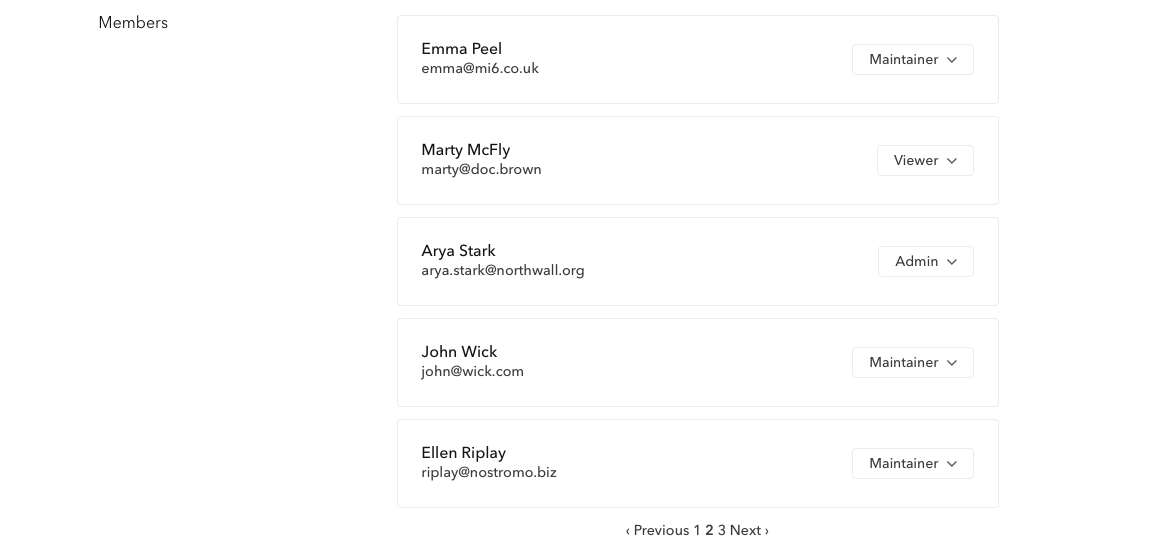
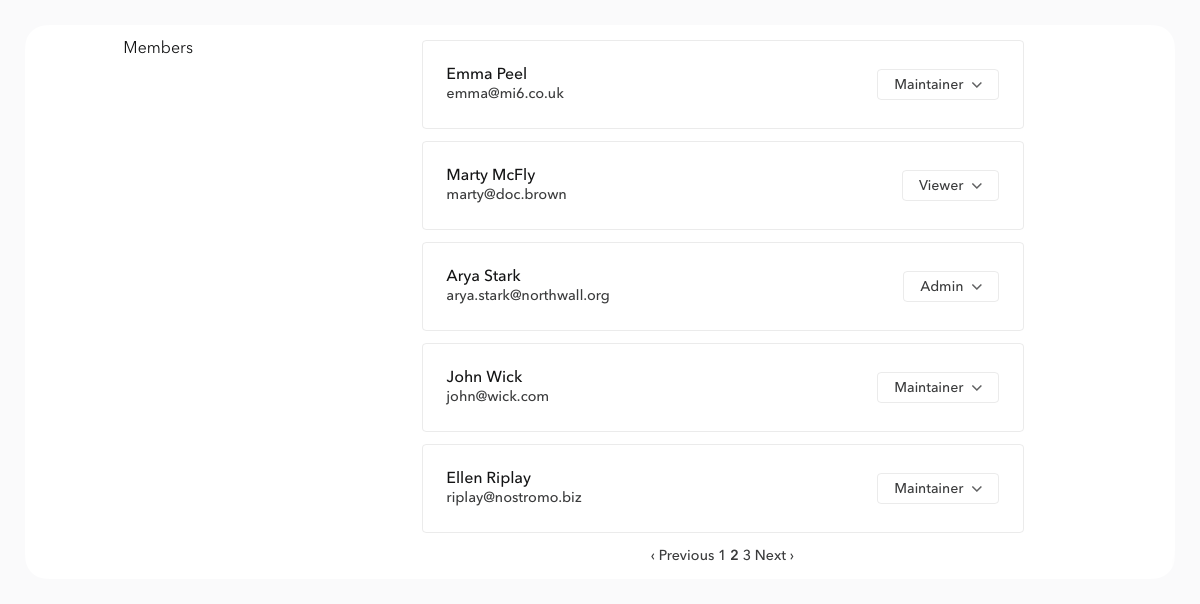
Fixed several typos, followed recent reviews to adjust the wording, fixed screenshots that weren't following the appropriate template

diff --git a/src/_help/organizations/create-and-manage-organizations.md b/src/_help/organizations/create-and-manage-organizations.md
@@ -6,8 +6,11 @@ title: Create and manage organizations
 {:toc}
 
 ## How to create an organization
-To create an organization, you should start by accessing the settings of your personal account.
-The Organizations section allows you to view the organizations you are currently associated with and create a new one.
+To create an organization, simply reach the account selection in menu in the top bar and click on "Create a new organization".
+
+![](/images/help/org-dropdown.png)
+
+You can also, from your settings and the Organization section, create a new organization and view the list of those you are a member of.
 
 ![](/images/help/create-org.png)
 
@@ -15,7 +18,7 @@ You will then be prompted to specify the organization's name (visible to all its
 
 ![](/images/help/org-creation.png)
 
-At this stage, you can also choose to add existing documentation and/or hubs to your new organization. These will retain the access settings they had before the migration.
+At this stage, you can also choose to move existing documentation and/or hubs to your new organization. These will retain the access settings they had before the migration.
 
 ## Add teammates to an organization
 From the Members section in the settings of an organization, you can add new members, view the list of existing members, modify their roles, and check pending invitations.
@@ -30,23 +33,21 @@ To invite a new member, simply provide their email address and specify the role 
 {: .info}
 
 ### Add teammates with SSO
-The SSO support allows you to add and manage members of your organization directly through your existing solution. We support most of the available identity providers (list them), through WorkOS.
+If your plan allows it, you can add team members via SSO. More information is available in the [dedicated section here](/help/organizations/organization-access-management/#sso).
 
 > Using SSO does not prevent you from inviting users via manual invitations.
-{: .info}
-
-> SSO is a feature available from our Business plan.
 {: .info}
 
 ## Delete teammates in an organization
 Still from the Members section, you can easily remove a member from your organization by clicking on their role to the right of their name and email. The option to delete this member is available at the very end of the list that appears.
 
 ## Change URL/slug
+Slug can be considered as the namespace of your organization, a human-readable URLs pointing to it.
+Everything in your organization, from documentation to hubs, will be below the slug in the URL.
+It will look like this: `https://bump.sh/your-slug/your-documentation`.
+
 From the settings of your organization, you can quickly change the slug via the dedicated field.
-
 Bump.sh does not automatically redirect to the new URL after changing the slug, so be sure to notify your users of this change.
-
-The Custom Domain option allows you to keep your users within your brand experience by fully customizing the URL of your organization.
 
 > Modifying the slug also changes all the public URLs for accessing your organization, hubs, and documentation!
 {: .warning}

diff --git a/src/_help/organizations/index.md b/src/_help/organizations/index.md
@@ -7,6 +7,10 @@ title: Organizations
 
 Organizations are great when you need to work collaboratively with your team. Instead of a single shared account, each member of your team will be able to access/maintain your documentation and hubs.
 
-Organizations are also super useful if you want to invite guests (who are called "viewers") to your documentation: it's a read-only role. If you need to keep your API private or shared with a small number of partners, viewers are a great solution.
+We designed Organization to be the place where a team meets their API documentation, within the same workspace with specific roles and rules.
+
+Organizations have their own structure and settings, apart from your personal account. You can switch between them using the dropdown menu, in the top bar.
+
+![](/images/help/org-dropdown.png)
 
 Next step: [Create your organization](/help/organizations/create-and-manage-organizations/)

diff --git a/src/_help/organizations/organization-access-management.md b/src/_help/organizations/organization-access-management.md
@@ -38,5 +38,5 @@ To activate SSO for your organization, the organization's owner must contact our
 The configuration step for your identity provider depends on the specific provider you are using. You can refer to the [various guides provided by WorkOS](https://workos.com/docs/integrations) to follow the necessary steps.
 
 > By default, all users who get access to Bump.sh via the configured SSO will have the “Viewer” Role/Permission.
-{: .warning}
+{: .info}
 
